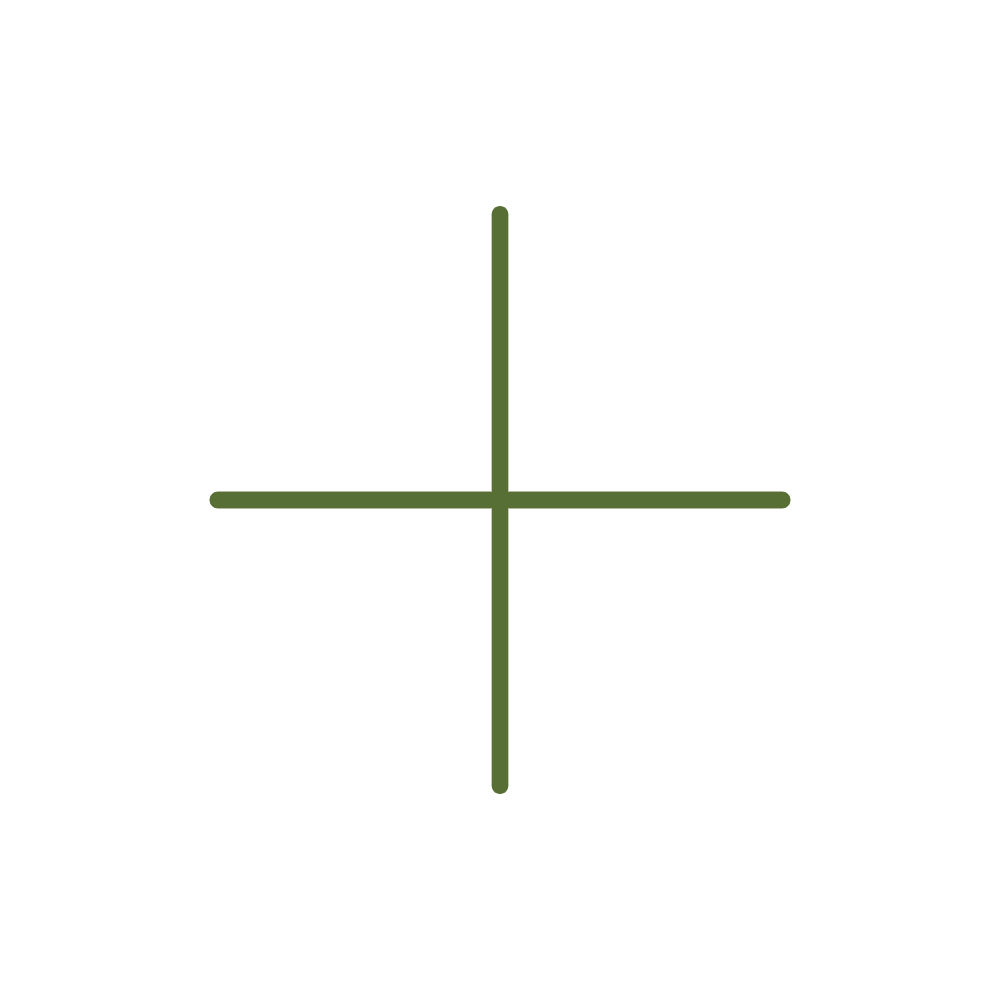
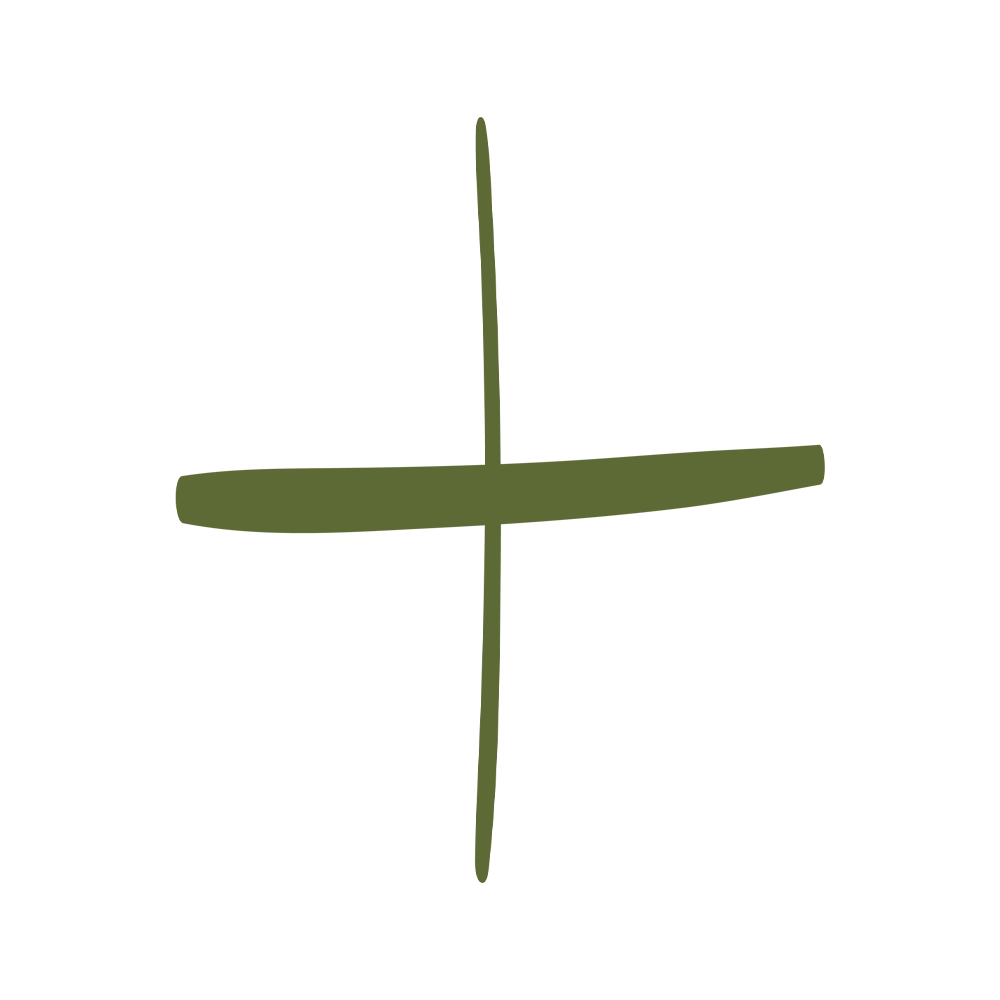
Nouvelle correction du responsive + changement d'une des images

Changed region(s): [[0.155, 0.124, 0.837, 0.899]]

diff --git a/style-responsive.css b/style-responsive.css
@@ -406,7 +406,7 @@
   }
 
   div#vosprojets {
-    height: 90vh;
+    height: 100vh;
     flex-direction: column;
   }
 
@@ -441,7 +441,7 @@
   .div6_2 { grid-area: 3 / 2 / 4 / 3; }
 
   div#presentation{
-    height: 108vh;
+    height: 116vh;
   }
 
   .div_galerie {
